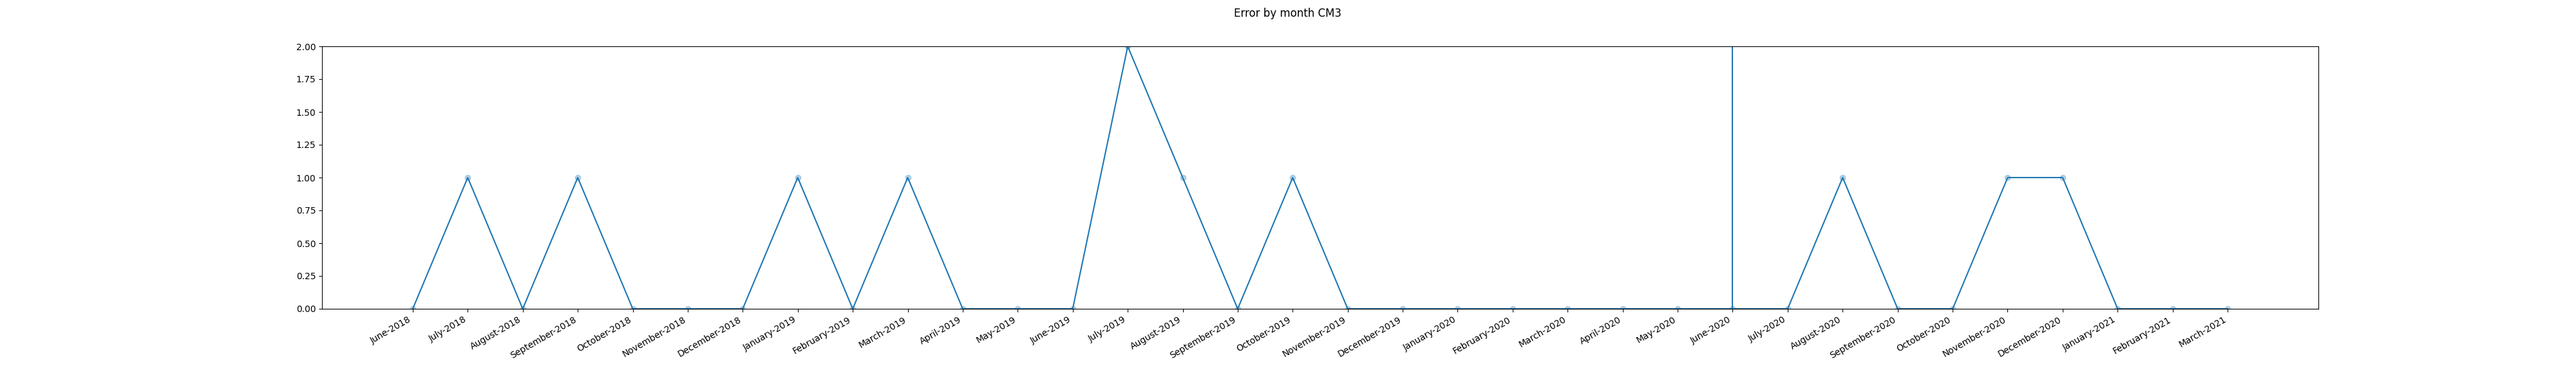
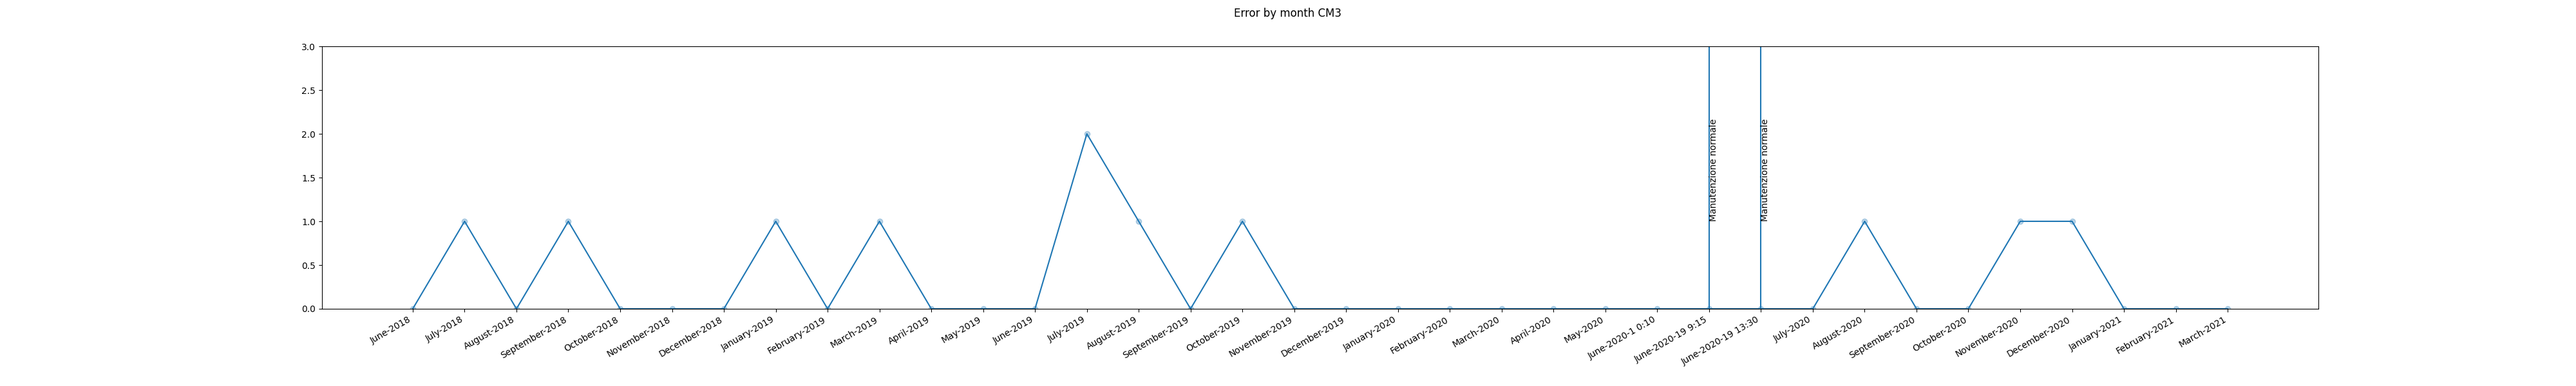
chart with maintenance

diff --git a/ScriptStatisticWindTurbine/ChartMaintenance.py b/ScriptStatisticWindTurbine/ChartMaintenance.py
@@ -1,4 +1,6 @@
+import calendar
 import random
+from datetime import datetime
 from typing import List
 
 from matplotlib import colors
@@ -15,7 +17,7 @@ import CorrelationPlt as Cr
 import TypeDistribution as Tp
 import matplotlib.dates as mdates
 import pandas as pd
-from CaseClassPlt import ErrorInfo, WarningInfo, DateTurbine
+from CaseClassPlt import ErrorInfo, WarningInfo, DateTurbine, InfoTurbine, InfoTurbineAll
 
 db_call = Db()
 
@@ -403,10 +405,15 @@ def get_value_event():
 def chart_maintenance_aggregate():
     for (name_turbine, date, size, max_warning, id_turbine, lines_aux, total_warning) in get_value_event():
         fig, ax = plt.subplots(figsize=(40, 6))
-        lines = [[(i, 0), (i, max_warning)] if lines_aux[i] == 1 else [(i, 0), (i, 0)] for i in range(len(lines_aux))]
-        plt.ylim(0, max_warning)
+        lines = [[(i, 0), (i, max_warning+1)] if lines_aux[i][0] == 1 else [(i, 0), (i, 0)] for i in
+                 range(len(lines_aux))]
+        plt.ylim(0, max_warning+1)
         line_coll = matcoll.LineCollection(lines)
         ax.scatter(date, total_warning, alpha=0.3)
+        [ax.text(x, int(max_warning / 2), "Manutenzione normale" if l_aux[0] == 1 else "Manutenzione straordinaria",
+                 rotation=90, verticalalignment="bottom")
+         for (x, l_aux) in zip(date, lines_aux) if l_aux[0] == 1]
+
         plt.plot(date, total_warning)
         ax.add_collection(line_coll)
 
@@ -416,27 +423,90 @@ def chart_maintenance_aggregate():
         plt.show()
 
 
+def check_format_date(date):
+    try:
+        return datetime.strptime(date, "%B-%Y")
+    except:
+        return datetime.strptime(date, "%B-%Y-%d %H:%M")
+
+
+def create_dictionary_warning_by_month(dates: list, dictionary: dict, total_warning: list, name_turbine: str,
+                                       lines_aux: list):
+    # print(f'dates {len(dates)} warning {len(total_warning)}')
+    for (date, warning, type_maintenance) in zip(dates, total_warning, lines_aux):
+        if date in dictionary:
+            dictionary[date].append((warning if type_maintenance == (0, False) else 0, name_turbine, type_maintenance))
+
+        else:
+            dictionary[date] = [(warning if type_maintenance == (0, False) else 0, name_turbine, type_maintenance)]
+    return dictionary
+
+
+def check_format(value, final_total_warning_aux):
+    index = final_total_warning_aux.index(value)
+    if not value.maintenance and index < len(final_total_warning_aux) - 1 and \
+            not not final_total_warning_aux[index + 1].maintenance:
+        return calendar.month_name[value.date.month] + "-" + str(value.date.year) + "-" + str(
+            value.date.day) + " " + str(value.date.hour) + ":" + str(value.date.minute)
+    if not value.maintenance and index > 0 and not not final_total_warning_aux[index + 0].maintenance:
+        return calendar.month_name[value.date.month] + "-" + str(value.date.year) + "-" + str(
+            value.date.day) + " " + str(value.date.hour) + ":" + str(value.date.minute)
+    if not not value.maintenance:
+        return calendar.month_name[value.date.month] + "-" + str(value.date.year) + "-" + str(
+            value.date.day) + " " + str(value.date.hour) + ":" + str(value.date.minute)
+    else:
+        return calendar.month_name[value.date.month] + "-" + str(value.date.year)
+
+
+def set_text_maintenance(info: InfoTurbineAll):
+    normal = []
+    extra = []
+    for val in info.maintenance:
+        if val[2] == (1, True):
+            normal.append(val[1])
+        else:
+            extra.append(val[1])
+    return " ".join(["Normal Maintenance" if not not normal else "", ' '.join(normal) if not not normal else "",
+                     "Extra Maintenance" if not not extra else "", ' '.join(extra) if not not extra else ""])
+
+
 def chart_maintenance_aggregate_all_turbine_event_month():
-    fig, ax = plt.subplots(figsize=(40, 6))
-    final_warning = []
+    info_turbines = []
+    final_warning = {}
     date = []
-    name_turbine = ""
+    all_names = [db_call.read_name_turbine(id_turbine)[0][0] for (id_turbine,) in db_call.read_id_turbine()]
     for (name_turbine, date, size, max_warning, id_turbine, lines_aux, total_warning) in get_value_event():
         date = date
-        name_turbine = name_turbine
-        if not not final_warning:
-            final_warning = [val1 + val2 for (val1, val2) in zip(final_warning, total_warning)]
-        else:
-            final_warning = total_warning
-    max_warning = max(final_warning)
-    # lines = [[(i, 0), (i, max_warning)] if lines_aux[i] == 1 else [(i, 0), (i, 0)] for i in range(len(lines_aux))]
+        info_turbines.append(InfoTurbine(lines_aux, date, name_turbine))
+        final_warning = create_dictionary_warning_by_month(date, final_warning, total_warning, name_turbine, lines_aux)
+        print(f"final warning {len(final_warning)}")
+    final_total_warning = list(map(lambda key: InfoTurbineAll(check_format_date(key),
+                                                              sum(list(map(lambda value_sum: value_sum[0], filter(
+                                                                  lambda value_list: value_list[2] == (0, False),
+                                                                  final_warning[key])))),
+                                                              list(filter(lambda value_list: value_list[2] == (1, True)
+                                                                                             or value_list[2] == (
+                                                                                                 1, False),
+                                                                          final_warning[key]))),
+                                   final_warning))
+    fig, ax = plt.subplots(figsize=(40, 6))
+    final_total_warning = sorted(final_total_warning, key=lambda info_turbine: info_turbine.date)
+    max_warning = max(final_total_warning, key=lambda info_turbine: info_turbine.qta_warning).qta_warning
+    lines = [[(i, 0), (i, max_warning)] if not not final_total_warning[i].maintenance else [(i, 0), (i, 0)]
+             for i in range(len(final_total_warning))]
     plt.ylim(0, max_warning)
-    # line_coll = matcoll.LineCollection(lines)
-    ax.scatter(date, final_warning, alpha=0.3)
-    plt.plot(date, final_warning)
-    # ax.add_collection(line_coll)
+    line_coll = matcoll.LineCollection(lines)
 
-    fig.suptitle(f"Error by month {name_turbine}")
+    dates = list(map(lambda value: check_format(value, final_total_warning), final_total_warning))
+    event = list(map(lambda value: value.qta_warning, final_total_warning))
+    ax.scatter(dates, event, alpha=0.3)
+    [ax.text(check_format(info, final_total_warning), int(max_warning / (10 if max_warning >= 100 else 5)),
+             set_text_maintenance(info),
+             rotation=90, horizontalalignment='left', verticalalignment='bottom') for index, info in
+     enumerate(final_total_warning, start=0) if not not info.maintenance]
+    plt.plot(dates, event)
+    ax.add_collection(line_coll)
+    fig.suptitle(f"Error by month {'-'.join(all_names)}")
     fig.autofmt_xdate()
-    plt.savefig(f"images/maintenance_aggregate_total/turbine-{name_turbine}-period-{date[0]}-{date[-1]}")
+    plt.savefig(f"images/maintenance_aggregate_total/all-turbine-period-{date[0]}-{date[-1]}")
     plt.show()

diff --git a/ScriptStatisticWindTurbine/UtilsPLT.py b/ScriptStatisticWindTurbine/UtilsPLT.py
@@ -271,28 +271,81 @@ def create_all_month_name(min_max_date: DateTurbine):
     return list_date
 
 
-def check_date(maintenances: list, date: datetime):
+def get_date_from_str(dates: str):
+    return datetime.strptime(dates, format_date)
+
+
+def check_date(maintenances: list, date: datetime) -> (int, DateTurbine):
     val = 0
     for dates in maintenances:
-        finish = datetime.strptime(dates.date_finish, format_date)
+        finish = get_date_from_str(dates.date_finish)
         (_, end_date) = calendar.monthrange(finish.year, finish.month)
         finish = finish.replace(day=end_date, minute=59, second=59, hour=23)
-        init = datetime.strptime(dates.date_init, format_date)
+        init = get_date_from_str(dates.date_init)
         init = init.replace(day=1, minute=0, second=0, hour=0)
         if init <= date <= finish:
-            return 1
+            return 1, dates
         else:
             val = 0
-    return val
+    return val, None
+
+
+def create_info(date: datetime, total_warning: int):
+    return (calendar.month_name[date.month] + "-" + str(date.year) + "-" + str(date.day) + " " + str(
+        date.hour) + ":" + str(date.minute), total_warning)
+
+
+def check_is_maintenance(is_maintenance: int, date_turbine: DateTurbine, actual_date: datetime, total_info: list,
+                         total_warning: int):
+    if date_turbine is not None and is_maintenance:
+        finish = get_date_from_str(date_turbine.date_finish)
+        init = get_date_from_str(date_turbine.date_init)
+        if actual_date < init:
+            for date in [actual_date, init, finish]:
+                total_info.append(create_info(date, total_warning))
+        elif actual_date > init and actual_date > finish:
+            for date in [init, finish, actual_date]:
+                total_info.append(create_info(date, total_warning))
+        elif init <= actual_date <= finish:
+            for date in [init, actual_date, finish]:
+                total_info.append(create_info(date, total_warning))
+        return total_info
+    else:
+        total_info.append((calendar.month_name[actual_date.month] + "-" + str(actual_date.year), total_warning))
+        return total_info
+
+
+def create_line_info(is_maintenance, date_turbine, actual_date, lines):
+    if date_turbine is not None and is_maintenance:
+        finish = get_date_from_str(date_turbine.date_finish)
+        init = get_date_from_str(date_turbine.date_init)
+        if actual_date < init:
+            for date in [(int(not is_maintenance), False), (is_maintenance, date_turbine.is_normal),
+                         (is_maintenance, date_turbine.is_normal)]:
+                lines.append(date)
+        elif actual_date > init and actual_date > finish:
+            for date in [(is_maintenance, date_turbine.is_normal), (is_maintenance, date_turbine.is_normal),
+                         (int(not is_maintenance), False)]:
+                lines.append(date)
+        elif init <= actual_date <= finish:
+            for date in [(is_maintenance, date_turbine.is_normal), (int(not is_maintenance), False),
+                         (is_maintenance, date_turbine.is_normal)]:
+                lines.append(date)
+        return lines
+    else:
+        lines.append((is_maintenance, False))
+        return lines
 
 
 def aggregate_event_by_month(all_month: list, all_event: list, maintenances: list):
     total_info = []
     lines = []
     for index, date in enumerate(all_month, start=0):
-        lines.append(check_date(maintenances, date))
+        is_maintenance, date_turbine = check_date(maintenances, date)
+        lines = create_line_info(is_maintenance, date_turbine, date, lines)
         (_, end_date) = calendar.monthrange(date.year, date.month)
         date_f = date.replace(day=end_date)
         total_warning = len(list(filter(lambda value: date <= value[0] <= date_f, all_event)))
-        total_info.append((calendar.month_name[date.month] + "-" + str(date.year), total_warning))
+        total_info = check_is_maintenance(is_maintenance, date_turbine, date, total_info, total_warning)
+    #print(f'total_info {len(total_info)} lines {len(lines)}')
     return total_info, lines

diff --git a/ScriptStatisticWindTurbine/ScriptStatisticWindTurbine.py b/ScriptStatisticWindTurbine/ScriptStatisticWindTurbine.py
@@ -1,3 +1,6 @@
+import datetime
+import calendar
+
 from matplotlib.colors import LinearSegmentedColormap
 
 import CorrelationPlt as Cr
@@ -7,16 +10,20 @@ import AutoCorrelation as Ac
 import ChartMaintenance as Ch
 import numpy
 import matplotlib.pyplot as plt
-if __name__ == '__main__':
-   Ch.chart_maintenance_aggregate_all_turbine_event_month()
 
-   Ch.chart_maintenance_aggregate()
-   #Ch.chart_maintenance_period_by_turbine_with_defined_warning()
-   #Ch.chart_histogram_maintenance_with()
-   #Ch.chart_maintenance_period_by_turbine_with_angle(10, 1)
-    #Ch.chart_histogram_maintenance()
-   #Ch.chart_maintenance_period_by_turbine_with_warning()
-   """Ac.calculus_auto_correlation_warning_series_before_error(4, 10)
+from matplotlib import collections as matcoll
+from CaseClassPlt import InfoTurbine, InfoTurbineAll, NormalOrExtraMaintenance
+
+if __name__ == '__main__':
+    #Ch.chart_maintenance_aggregate_all_turbine_event_month()
+    Ch.chart_maintenance_aggregate()
+
+    # Ch.chart_maintenance_period_by_turbine_with_defined_warning()
+    # Ch.chart_histogram_maintenance_with()
+    # Ch.chart_maintenance_period_by_turbine_with_angle(10, 1)
+    # Ch.chart_histogram_maintenance()
+    # Ch.chart_maintenance_period_by_turbine_with_warning()
+    """Ac.calculus_auto_correlation_warning_series_before_error(4, 10)
    Cr.calculate_correlation_between_period()
    Cr.calculus_corr_before_failure_between_nacelle_and_wind_direction(3)
    Tp.calculus_qq_plot(15)

diff --git a/ScriptStatisticWindTurbine/CaseClassPlt.py b/ScriptStatisticWindTurbine/CaseClassPlt.py
@@ -1,4 +1,5 @@
 from dataclasses import dataclass
+from datetime import datetime
 
 
 @dataclass(frozen=True)
@@ -53,3 +54,23 @@ class WarningInfo:
     warning: float
     color: (int, int, int)
     dimension: float
+
+
+@dataclass(frozen=True)
+class InfoTurbine:
+    lines: list
+    date: list
+    name: str
+
+
+@dataclass(frozen=True)
+class InfoTurbineAll:
+    date: datetime
+    qta_warning: int
+    maintenance: list
+
+
+@dataclass(frozen=True)
+class NormalOrExtraMaintenance:
+    name_turbine: str
+    is_normal: bool

diff --git a/ScriptStatisticWindTurbine/AllQueryDB.py b/ScriptStatisticWindTurbine/AllQueryDB.py
@@ -37,7 +37,7 @@ class AllQueryDB:
 
     @staticmethod
     def query_to_read_id_turbine():
-        return f'SELECT id FROM wind_turbine_info'
+        return f'SELECT id FROM wind_turbine_info WHERE have_torquer'
 
     @staticmethod
     def query_to_read_name_turbine(id_turbine: int):
